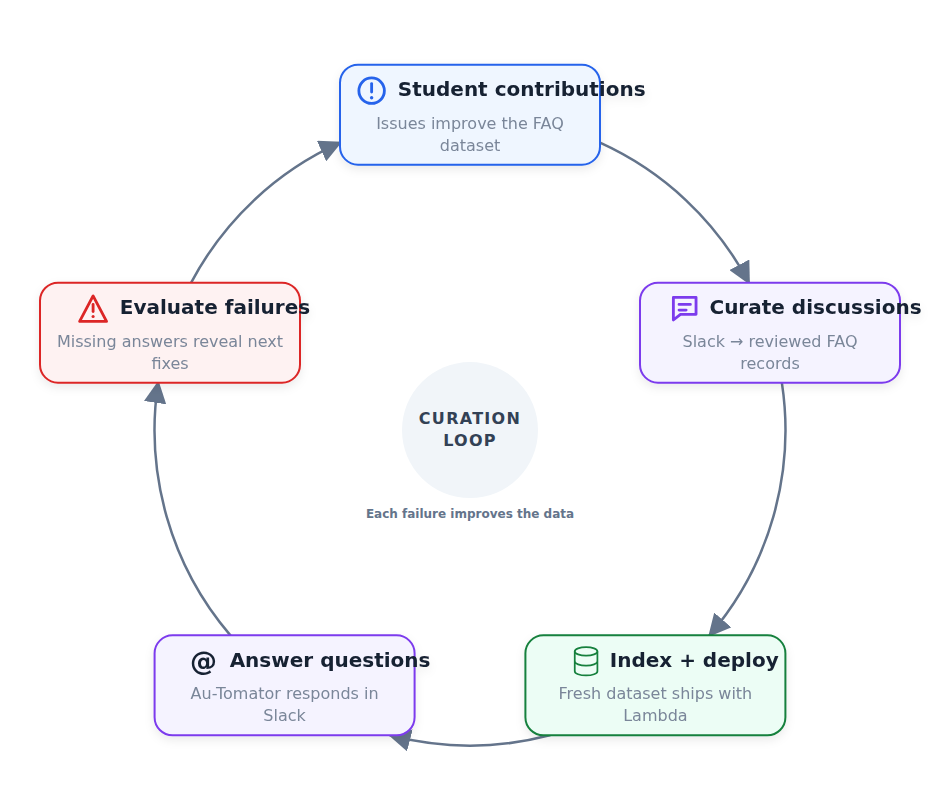
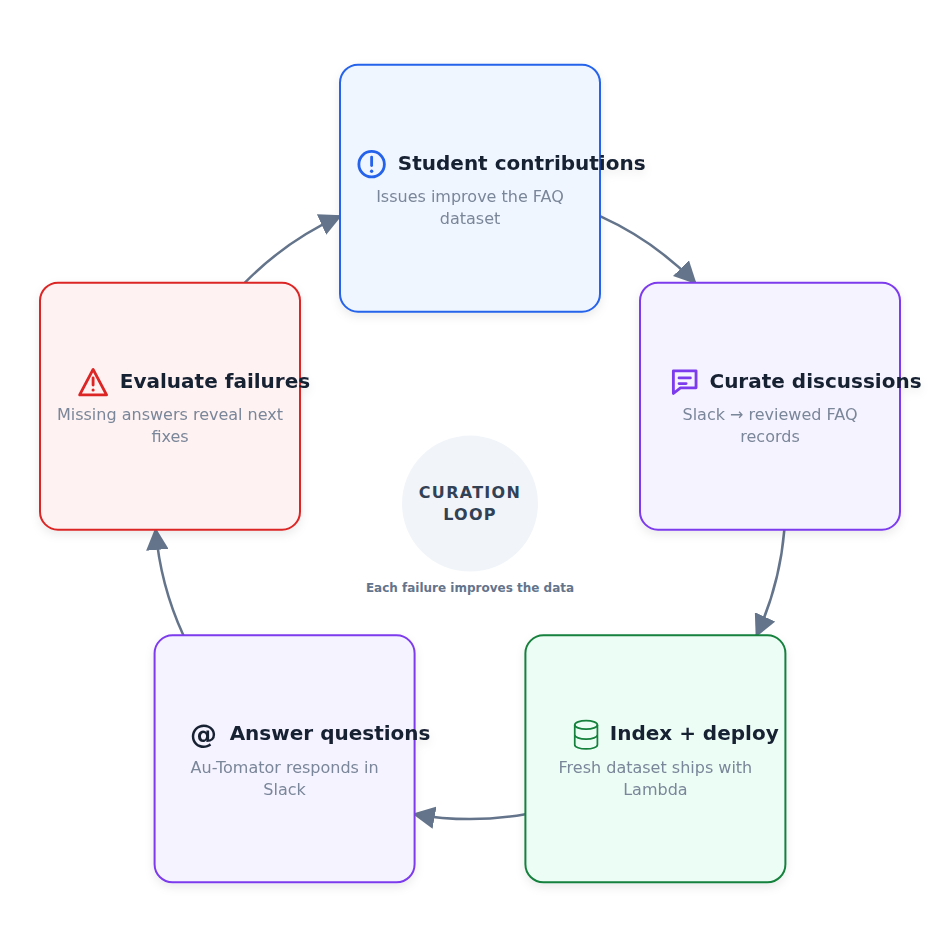
Refuse to render a ring whose connectors differ in length
Equal-length arrows kept regressing whenever the card size changed,
because nothing enforced them - they were a property of the card shape
that happened to hold or not. A ring whose connectors differ by more than
10 percent is now rejected outright, and the error names the card height
that evens them out.

The cause is geometric: a card presents a different angular width at each
slot unless it is close to square, so a wide flat card makes the bottom
arc far shorter than the top one. The fix is always to square the card up,
which is what the message says. The suggested height is found by trying
heights and keeping the smallest spread.

layout.icon_position is renamed to inline / block.

This rejects several checked-in diagrams, all of which were carrying the
fault silently: the example loop moves to 260x247, the article loop to
230x216. Tests cover the rejection and that following the advice renders.

diff --git a/tests/test_renderer.py b/tests/test_renderer.py
@@ -19,7 +19,7 @@ STEP_EDGE = re.compile(
 )
 
 
-def ring_spec(width, height, *, count=5, margin=None, card=(220, 90)):
+def ring_spec(width, height, *, count=5, margin=None, card=(220, 205)):
     layout = {"type": "ring", "card_width": card[0], "card_height": card[1]}
     if margin is not None:
         layout["margin"] = margin
@@ -343,8 +343,8 @@ def test_renders_a_five_node_ring_as_svg(tmp_path):
     spec = DiagramSpec.from_dict(
         {
             "title": "Continuous FAQ loop",
-            "canvas": {"width": 940, "height": 800},
-            "layout": {"type": "ring", "card_width": 260, "card_height": 100},
+            "canvas": {"width": 940, "height": 947},
+            "layout": {"type": "ring", "card_width": 260, "card_height": 247},
             "nodes": [
                 {
                     "id": "contribute",
@@ -401,8 +401,8 @@ def test_renders_a_five_node_ring_as_svg(tmp_path):
     render_diagram(spec, output)
 
     svg = output.read_text()
-    assert 'width="940" height="800"' in svg
-    centers = ring_card_centers(svg, 260, 100)
+    assert 'width="940" height="947"' in svg
+    centers = ring_card_centers(svg, 260, 247)
     assert len(centers) == 5
     center_x, center_y = ring_center(centers)
     radii = [math.hypot(x - center_x, y - center_y) for x, y in centers]
@@ -431,7 +431,7 @@ def ring_arcs(svg):
 
 
 def test_ring_connectors_touch_the_cards_they_join(tmp_path):
-    spec = ring_spec(1000, 1000)
+    spec = ring_spec(1040, 1010)
     output = tmp_path / "loop.svg"
 
     render_diagram(spec, output)
@@ -440,7 +440,7 @@ def test_ring_connectors_touch_the_cards_they_join(tmp_path):
     arcs = ring_arcs(svg)
     assert len(arcs) == 5
     boxes = [
-        (x, y, x + 220, y + 90) for x, y in (map(float, n) for n in NODE_TRANSFORM.findall(svg))
+        (x, y, x + 220, y + 205) for x, y in (map(float, n) for n in NODE_TRANSFORM.findall(svg))
     ]
 
     def off_card(point):
@@ -458,22 +458,32 @@ def test_ring_connectors_touch_the_cards_they_join(tmp_path):
         assert off_card((end_x, end_y)) < 1.5
 
 
-def test_ring_arcs_are_near_equal_on_a_square_card(tmp_path):
-    # Touching every card is exact; equal arc lengths are not, because a card
-    # presents a different angular width at each slot. It converges as the card
-    # approaches square, so that is the shape a loop should aim for.
-    output = tmp_path / "loop.svg"
-    spreads = []
-    for card in ((220, 90), (195, 176)):
-        render_diagram(ring_spec(875, 826, card=card), output)
-        chords = [math.hypot(a[3] - a[0], a[4] - a[1]) for a in ring_arcs(output.read_text())]
-        spreads.append((max(chords) - min(chords)) / min(chords))
-    assert spreads[1] < spreads[0]
-    assert spreads[1] < 0.15
+def test_ring_rejects_connectors_of_different_lengths(tmp_path):
+    # A card presents a different angular width at each slot unless it is close
+    # to square, so a wide flat one makes the bottom arc far shorter than the
+    # top. That is the most visible way a loop stops reading as one circle, so
+    # the renderer refuses it rather than leaving it to whoever picks the size.
+    spec = ring_spec(1040, 1010, card=(220, 90))
+
+    with pytest.raises(SpecError, match="ring connectors differ in length"):
+        render_diagram(spec, tmp_path / "loop.svg")
+
+
+def test_ring_error_names_a_card_height_that_evens_the_connectors(tmp_path):
+    with pytest.raises(SpecError) as failure:
+        render_diagram(ring_spec(1040, 1010, card=(220, 90)), tmp_path / "loop.svg")
+    suggested = float(re.search(r"card_height of about (\d+)", str(failure.value)).group(1))
+
+    # Taking the advice produces a diagram that renders.
+    output = tmp_path / "fixed.svg"
+    render_diagram(ring_spec(1040, 1010, card=(220, suggested)), output)
+
+    chords = [math.hypot(a[3] - a[0], a[4] - a[1]) for a in ring_arcs(output.read_text())]
+    assert (max(chords) - min(chords)) / min(chords) <= 0.10
 
 
 def test_center_detail_sits_clear_of_the_annotation_circle(tmp_path):
-    spec = ring_spec(940, 800)
+    spec = ring_spec(1040, 1010)
     output = tmp_path / "loop.svg"
 
     render_diagram(spec, output)
@@ -488,13 +498,13 @@ def test_center_detail_sits_clear_of_the_annotation_circle(tmp_path):
 
 
 def test_ring_layout_centers_the_annotation_on_the_circle(tmp_path):
-    spec = ring_spec(940, 800)
+    spec = ring_spec(1040, 1010)
     output = tmp_path / "loop.svg"
 
     render_diagram(spec, output)
 
     svg = output.read_text()
-    center_x, center_y = ring_center(ring_card_centers(svg, 220, 90))
+    center_x, center_y = ring_center(ring_card_centers(svg, 220, 205))
     annotation = re.search(r'<circle class="center-annotation" cx="([-\d.]+)" cy="([-\d.]+)"', svg)
     assert annotation is not None
     assert (float(annotation.group(1)), float(annotation.group(2))) == pytest.approx(
@@ -504,12 +514,12 @@ def test_ring_layout_centers_the_annotation_on_the_circle(tmp_path):
 
 @pytest.mark.parametrize("count", [3, 4, 6, 7])
 def test_ring_layout_supports_other_node_counts(count, tmp_path):
-    spec = ring_spec(940, 940, count=count)
     output = tmp_path / "loop.svg"
+    # Cards small relative to the radius keep the connectors even at any count;
+    # the shape that does so at a given count is otherwise count-dependent.
+    render_diagram(ring_spec(1120, 1100, count=count, card=(150, 140)), output)
 
-    render_diagram(spec, output)
-
-    centers = ring_card_centers(output.read_text(), 220, 90)
+    centers = ring_card_centers(output.read_text(), 150, 140)
     assert len(centers) == count
     center_x, center_y = ring_center(centers)
     radii = [math.hypot(x - center_x, y - center_y) for x, y in centers]
@@ -526,10 +536,10 @@ def test_ring_layout_rejects_a_canvas_that_overlaps_cards(tmp_path):
 
 def test_ring_layout_margin_shrinks_the_circle(tmp_path):
     def radius(margin):
-        spec = ring_spec(940, 800, margin=margin)
+        spec = ring_spec(1040, 1010, margin=margin)
         output = tmp_path / f"loop-{margin}.svg"
         render_diagram(spec, output)
-        centers = ring_card_centers(output.read_text(), 220, 90)
+        centers = ring_card_centers(output.read_text(), 220, 205)
         center_x, center_y = ring_center(centers)
         return math.hypot(centers[0][0] - center_x, centers[0][1] - center_y)
 
@@ -638,8 +648,8 @@ def test_titles_share_one_size_rather_than_being_squeezed(tmp_path):
     # while leaving its neighbour untouched - visibly different letterforms.
     spec = DiagramSpec.from_dict(
         {
-            "canvas": {"width": 881, "height": 735},
-            "layout": {"type": "ring", "card_width": 230, "card_height": 112},
+            "canvas": {"width": 900, "height": 856},
+            "layout": {"type": "ring", "card_width": 230, "card_height": 216},
             "nodes": [
                 {"id": "a", "title": "Interview", "icon": "message"},
                 {"id": "b", "title": "Apply", "icon": "document"},

diff --git a/diagram_creator/renderer.py b/diagram_creator/renderer.py
@@ -58,6 +58,10 @@ RING_MARGIN = 40
 RING_EDGE_GAP = 0
 RING_ARC_SAMPLES = 240
 RING_CARD_GAP = 24
+# How much the ring's connectors may differ in length before the diagram is
+# rejected. Unequal arrows are the most visible way a loop stops reading as one
+# circle, so this is enforced rather than left to whoever picks the card size.
+RING_CHORD_TOLERANCE = 0.10
 STAIRCASE_MARGIN = 40
 STAIRCASE_STEP_GAP = 18
 # The tightest horizontal advance, as a share of the card width. Cards may
@@ -336,6 +340,8 @@ def render_svg_text(
     canvas_height = spec.canvas.height if height is None else height
     _validate_canvas(canvas_width, canvas_height)
     boxes = _layout(spec, canvas_width, canvas_height)
+    if spec.layout.type == "ring":
+        _check_ring_chords(spec, _ring_geometry(spec, canvas_width, canvas_height), boxes)
     symbols = _symbols_for(spec)
     markers = "\n".join(
         f'<marker id="arrow-{name}" viewBox="0 0 10 10" refX="9" refY="5" '
@@ -379,7 +385,7 @@ def render_svg_text(
     parts.append("")
     title_size = _card_title_size(spec, boxes)
     subtitle_size = _card_subtitle_size(spec, boxes)
-    stacked = spec.layout.icon_position == "above"
+    stacked = spec.layout.icon_position == "block"
     parts.extend(
         _draw_node(
             node,
@@ -681,6 +687,68 @@ def _bisect(limit: float, holds: Callable[[float], bool], *, keep_low: bool) -> 
     return low if keep_low else high
 
 
+def _ring_chords(spec: DiagramSpec, ring: Ring, boxes: dict[str, Box]) -> list[float]:
+    """Straight-line length of every connector, in JSON order."""
+    span = 2 * math.pi / ring.count
+    lengths = []
+    for index, node in enumerate(spec.nodes):
+        following = spec.nodes[(index + 1) % len(spec.nodes)]
+        start = _ring_exit(ring, boxes[node.id], ring.angle(index), span)
+        end = _ring_exit(ring, boxes[following.id], ring.angle(index) + span, -span)
+        first, second = ring.point(start), ring.point(end)
+        lengths.append(math.hypot(second[0] - first[0], second[1] - first[1]))
+    return lengths
+
+
+def _check_ring_chords(spec: DiagramSpec, ring: Ring, boxes: dict[str, Box]) -> None:
+    """Reject a ring whose connectors would come out visibly different lengths.
+
+    A card presents a different angular width at each slot unless it is close to
+    square, so a wide flat card makes the arc between the bottom pair far shorter
+    than the arc over the top. Squaring the card up is the fix, so the error says
+    which height would do it.
+    """
+    lengths = _ring_chords(spec, ring, boxes)
+    if not lengths or min(lengths) <= 0:
+        return
+    spread = (max(lengths) - min(lengths)) / min(lengths)
+    if spread <= RING_CHORD_TOLERANCE:
+        return
+    width = spec.layout.card_width or 260
+    suggestion = _ring_even_height(spec, ring, boxes, width)
+    advice = (
+        f"; card_height of about {suggestion:.0f} evens them out"
+        if suggestion is not None
+        else "; use a squarer card"
+    )
+    raise SpecError(
+        f"ring connectors differ in length by {spread:.0%} "
+        f"(longest {max(lengths):.0f}px, shortest {min(lengths):.0f}px){advice}"
+    )
+
+
+def _ring_even_height(
+    spec: DiagramSpec, ring: Ring, boxes: dict[str, Box], width: float
+) -> float | None:
+    """The card height that brings the connectors closest to equal length."""
+    # Only heights that could hold a card's content are worth suggesting; a
+    # sliver of a card also evens the arcs out, and is no use to anyone.
+    best: tuple[float, float] | None = None
+    for step in range(30, 251):
+        candidate = width * step / 100
+        trial = {
+            key: Box(box.center_x - width / 2, box.center_y - candidate / 2, width, candidate)
+            for key, box in boxes.items()
+        }
+        lengths = _ring_chords(spec, ring, trial)
+        if min(lengths) <= 0:
+            continue
+        spread = (max(lengths) - min(lengths)) / min(lengths)
+        if best is None or spread < best[0]:
+            best = (spread, candidate)
+    return None if best is None or best[0] > RING_CHORD_TOLERANCE else best[1]
+
+
 def _ring_layout(spec: DiagramSpec, width: int, height: int) -> dict[str, Box]:
     card_width = spec.layout.card_width or 260
     card_height = spec.layout.card_height or 100
@@ -737,7 +805,7 @@ def _card_title_size(spec: DiagramSpec, boxes: dict[str, Box]) -> int:
     wanted = round(TITLE_SIZE * scale)
     icon_size, gutter = round(ICON_SIZE * scale), ICON_GUTTER * scale
     # An icon above the title leaves the title the card's full inner width.
-    stacked = spec.layout.icon_position == "above"
+    stacked = spec.layout.icon_position == "block"
     for size in range(wanted, 7, -1):
         if all(
             _text_width(node.title, size, TITLE_WEIGHT)

diff --git a/diagram_creator/spec.py b/diagram_creator/spec.py
@@ -16,7 +16,7 @@ ROUTES = {"forward", "below", "straight", "curve", "ring", "step"}
 STAIRCASE_DIRECTIONS = {"descending", "ascending"}
 ANCHORS = {"left", "right", "top", "bottom"}
 NODE_VARIANTS = {"card", "icon", "plain"}
-ICON_POSITIONS = {"leading", "above"}
+ICON_POSITIONS = {"inline", "block"}
 ICONS = {
     "github",
     "search",
@@ -63,7 +63,7 @@ class Layout:
     direction: str = "clockwise"
     margin: float | None = None
     font_scale: float = 1.0
-    icon_position: str = "leading"
+    icon_position: str = "inline"
     step_x: float | None = None
     step_y: float | None = None
 
@@ -222,7 +222,7 @@ def _parse_layout(data: Any) -> Layout:
     row_height = _optional_number(data, "row_height", "layout")
     margin = _optional_number(data, "margin", "layout")
     font_scale = _optional_number(data, "font_scale", "layout")
-    icon_position = data.get("icon_position", "leading")
+    icon_position = data.get("icon_position", "inline")
     if icon_position not in ICON_POSITIONS:
         raise SpecError(
             f"layout 'icon_position' must be one of: {', '.join(sorted(ICON_POSITIONS))}"

diff --git a/README.md b/README.md
@@ -165,10 +165,10 @@ order and the renderer cascades them, so edges need no route of their own:
 
 Two layout options apply to cards in any layout. `font_scale` scales card type
 and its vertical rhythm together, for a diagram that has to stay legible after
-being scaled down to a phone. `icon_position` is `leading` (icon beside the
-title) or `above` (icon over a centered title); `above` needs roughly half the
-card width for the same title, which makes cards squarer - worth it in a ring,
-where flat cards give uneven gaps and unequal connector lengths.
+being scaled down to a phone. `icon_position` is `inline` (icon beside the
+title) or `block` (icon over a centered title); `block` needs roughly half the
+card width for the same title, which makes cards squarer and fills a square card
+better.
 
 Titles and subtitles are never stretched or squeezed. Each diagram picks one
 title size and one subtitle size - the largest that fits every card

diff --git a/docs/how-it-works.md b/docs/how-it-works.md
@@ -38,6 +38,13 @@ instance - following it would sag underneath them, so that pair joins its facing
 sides on a tighter arc that rises off its chord by the same proportion a full
 ring slot does. Every connector still reads as part of one loop.
 
+A ring is rejected when its connectors would come out visibly different lengths.
+A card presents a different angular width at each slot unless it is close to
+square, so a wide flat card makes the arc between the bottom pair far shorter
+than the arc over the top - the most visible way a loop stops reading as one
+circle. The error names the card height that evens them out, found by trying
+heights and keeping the one with the smallest spread.
+
 A step route is one elbow: out of a card's side, along to the point halfway
 between the two cards' trailing edges, then a rounded turn into the next card's
 top or bottom edge. Placing the turn by the two boxes rather than by the layout

diff --git a/skills/diagram-creator/rubric.md b/skills/diagram-creator/rubric.md
@@ -56,8 +56,11 @@ identical radius and identical length. Curvature and length are both things the
 eye compares, so a connector that is shorter, or on a tighter radius, reads as a
 different shape even when its endpoints are right.
 
+The renderer enforces this: a ring whose connectors differ in length by more
+than 10 percent is rejected, with the card height that would even them out.
+
 Check: chord length and arc radius of every connector. Radius spread under
-0.5 px always; chord spread under about 10 percent.
+0.5 px always; chord spread under 10 percent, or it will not render.
 
 Equal chords and touching cards pull against each other. Forcing one shared
 angular standoff makes the chords identical but then only the card needing the
